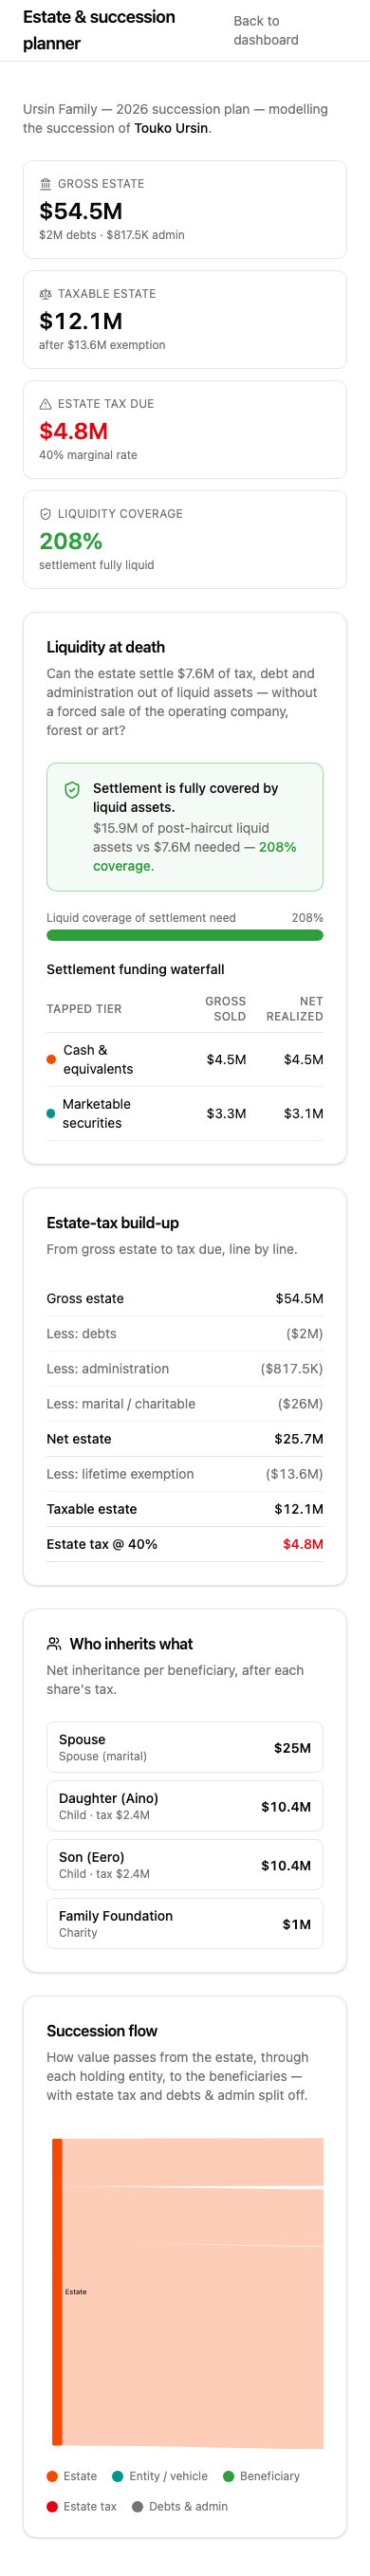
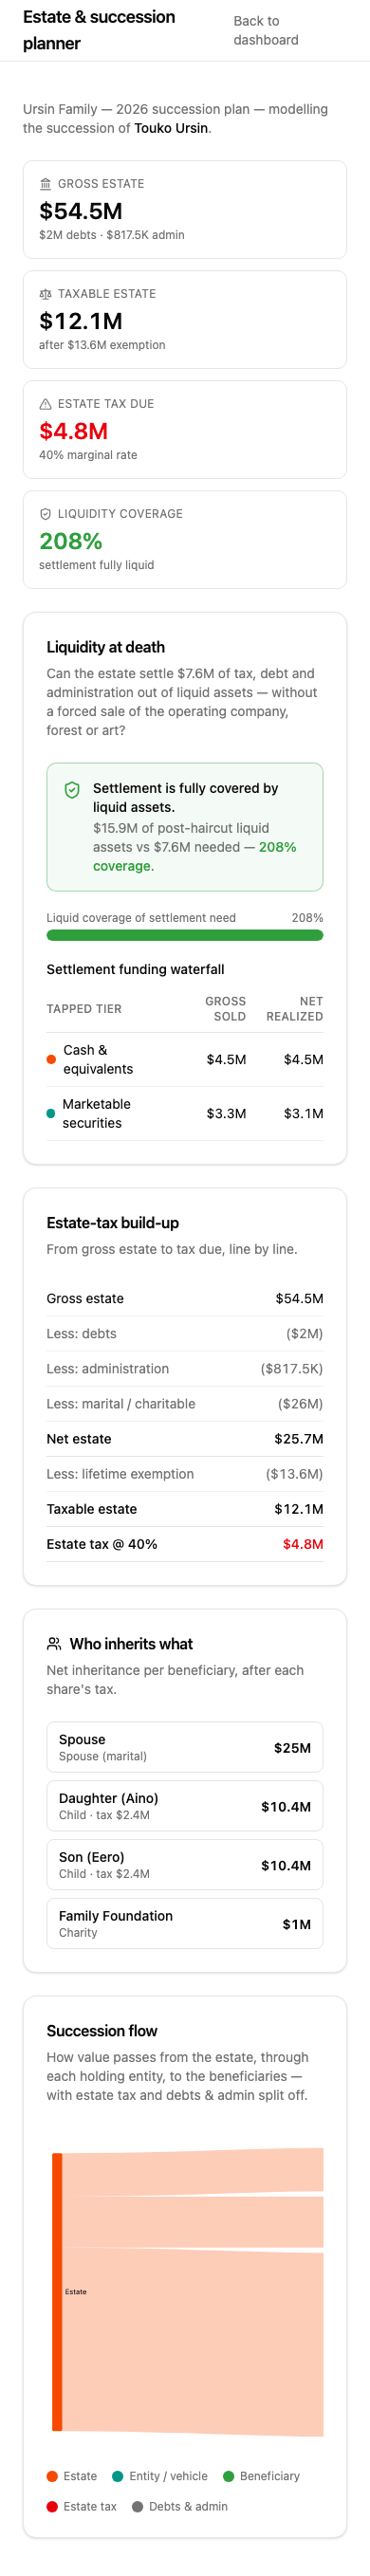
m8-estate: address CodeRabbit review
- estate.ts: reject duplicate bequest ids in validateEstatePlan (they key
  grossByBequest downstream; duplicates would silently corrupt totals).
- EstatePlannerPage: clamp meter aria-valuenow to [0,100] and expose the
  true ratio via aria-valuetext (208% no longer breaks meter semantics).
- SuccessionFlow: use one shared value->pixel scale for all columns and
  ribbons so equal values render at equal thickness; drop the max(wS,wT)
  stroke width that distorted value conservation.
- Tests: inclusive rounding-slack bound; duplicate-bequest-id validation
  test. Regenerate desktop + mobile evidence.

(The "flow links double-count tax / violate conservation" finding was
already fixed in the prior commit.)

Changed region(s): [[0.1538, 0.8041, 0.8615, 0.866], [0.1538, 0.9278, 0.8615, 0.9588]]

diff --git a/src/estate/SuccessionFlow.tsx b/src/estate/SuccessionFlow.tsx
@@ -86,17 +86,19 @@ export const SuccessionFlow = React.forwardRef<
     const nodeValue = (id: string) =>
       Math.max(inSum.get(id) ?? 0, outSum.get(id) ?? 0);
 
-    // Per-column vertical scale: the tallest column drives a shared value→pixel
-    // ratio so ribbon widths are comparable across columns.
+    // One shared value→pixel scale for every column and ribbon, so equal values
+    // always render at equal thickness (the Sankey "conserves value" visually).
+    // The scale is bounded by the column that has the least vertical slack
+    // (most inter-node gaps), so no column overflows the canvas.
+    const colInnerGap = 8;
     const colValueTotals = cols.map((col) =>
       col.reduce((acc, n) => acc + nodeValue(n.id), 0),
     );
     const maxColValue = Math.max(1, ...colValueTotals);
-    const colInnerGap = 8;
-    const valueScale = (col: FlowNode[]) => {
-      const slack = innerH - (col.length - 1) * colInnerGap;
-      return slack / maxColValue;
-    };
+    const minSlack = Math.min(
+      ...cols.map((col) => innerH - (col.length - 1) * colInnerGap),
+    );
+    const sharedScale = minSlack / maxColValue;
 
     const placed = new Map<string, PlacedNode>();
     const colX = [
@@ -105,7 +107,7 @@ export const SuccessionFlow = React.forwardRef<
       margin.left + innerW - nodeW,
     ];
     cols.forEach((col, ci) => {
-      const scale = valueScale(col);
+      const scale = sharedScale;
       const totalH =
         col.reduce((acc, n) => acc + nodeValue(n.id) * scale, 0) +
         (col.length - 1) * colInnerGap;
@@ -141,14 +143,11 @@ export const SuccessionFlow = React.forwardRef<
       const t = placed.get(l.target);
       const v = l.value.amount.toNumber();
       if (!s || !t) return null;
-      const sScale = valueScale(cols[COLUMN_BY_KIND[s.kind]]);
-      const tScale = valueScale(cols[COLUMN_BY_KIND[t.kind]]);
-      const wS = Math.max(1, v * sScale);
-      const wT = Math.max(1, v * tScale);
-      const y0 = s.outCursor + wS / 2;
-      const y1 = t.inCursor + wT / 2;
-      s.outCursor += wS;
-      t.inCursor += wT;
+      const w = Math.max(1, v * sharedScale);
+      const y0 = s.outCursor + w / 2;
+      const y1 = t.inCursor + w / 2;
+      s.outCursor += w;
+      t.inCursor += w;
       const x0 = s.x + s.w;
       const x1 = t.x;
       const xm = (x0 + x1) / 2;
@@ -163,7 +162,7 @@ export const SuccessionFlow = React.forwardRef<
           stroke={colorForKind(
             t.kind === "tax" || t.kind === "settlement" ? t.kind : s.kind,
           )}
-          strokeWidth={round(Math.max(wS, wT))}
+          strokeWidth={round(w)}
           strokeOpacity={0.28}
           data-testid="flow-link"
           data-source={l.source}

diff --git a/src/lib/estate/estate.ts b/src/lib/estate/estate.ts
@@ -359,7 +359,14 @@ export function validateEstatePlan(plan: EstatePlan): void {
     benIds.add(b.id);
   }
 
+  const bequestIds = new Set<string>();
   for (const bq of plan.bequests) {
+    // Bequest ids key grossByBequest downstream; duplicates would silently
+    // overwrite and corrupt exempt totals, tax allocation and the flow graph.
+    if (bequestIds.has(bq.id)) {
+      throw new EstateError(`duplicate bequest id: ${bq.id}`);
+    }
+    bequestIds.add(bq.id);
     if (!benIds.has(bq.beneficiaryId)) {
       throw new EstateError(
         `bequest ${bq.id} references unknown beneficiary ${bq.beneficiaryId}`,

diff --git a/src/lib/estate/estate.adversarial.test.ts b/src/lib/estate/estate.adversarial.test.ts
@@ -99,11 +99,11 @@ describe("estate engine invariants (property-style)", () => {
       const plan = randomPlan(seed);
       const a = analyzeEstate(plan);
       const cap = a.taxableEstate.times(plan.taxRate);
-      // tax ≤ cap + 1 minor unit of rounding slack.
+      // tax ≤ cap + 1 minor unit of rounding slack (inclusive of an exact cent).
       expect(
-        a.estateTax.minus(cap).lessThan(usd("0.01")),
+        a.estateTax.minus(cap).greaterThan(usd("0.01")),
         `seed ${seed}`,
-      ).toBe(true);
+      ).toBe(false);
     }
   });
 

diff --git a/src/lib/estate/estate.test.ts b/src/lib/estate/estate.test.ts
@@ -120,6 +120,12 @@ describe("validateEstatePlan", () => {
     dup.assets.push({ ...dup.assets[0] });
     expect(() => validateEstatePlan(dup)).toThrow(/duplicate asset id/);
   });
+
+  it("rejects duplicate bequest ids (they key grossByBequest downstream)", () => {
+    const dup = tinyPlan();
+    dup.bequests.push({ ...dup.bequests[0] });
+    expect(() => validateEstatePlan(dup)).toThrow(/duplicate bequest id/);
+  });
 });
 
 describe("analyzeEstate — tax math", () => {

diff --git a/src/estate/EstatePlannerPage.tsx b/src/estate/EstatePlannerPage.tsx
@@ -253,9 +253,10 @@ export function EstatePlannerPage({ plan }: EstatePlannerPageProps) {
                 className="h-3 w-full overflow-hidden rounded-full bg-muted"
                 data-testid="coverage-meter"
                 role="meter"
-                aria-valuenow={Math.round(coveragePct)}
+                aria-valuenow={Math.round(coverageClamped)}
                 aria-valuemin={0}
                 aria-valuemax={100}
+                aria-valuetext={formatCoverage(analysis.coverageRatio)}
                 aria-label="liquidity coverage of settlement need"
               >
                 <div